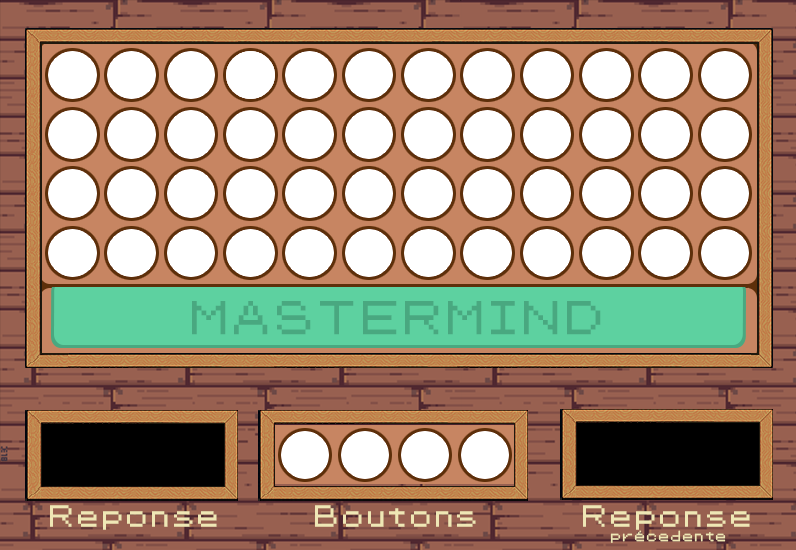
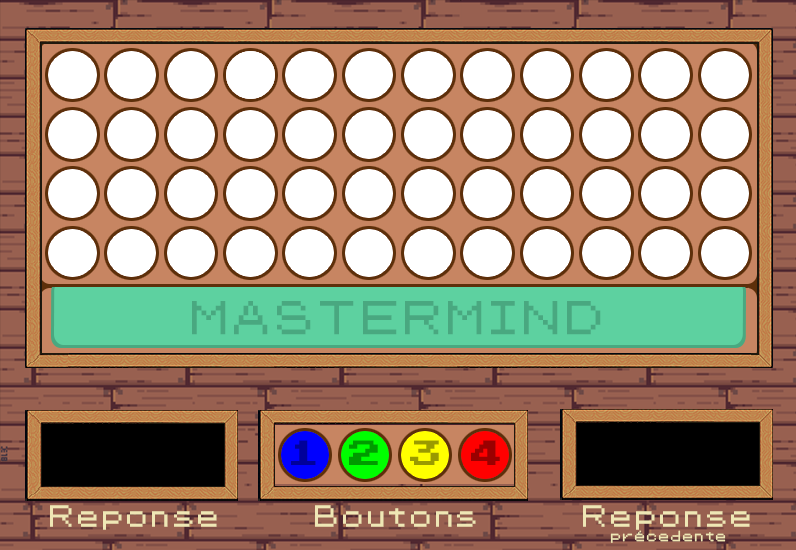
change front panel

Changed region(s): [[0.3317, 0.7727, 0.6633, 0.8964]]

diff --git a/main.py b/main.py
@@ -61,7 +61,7 @@ while True :
             quit()
         if event.type == pygame.KEYDOWN:
             if event.key == K_SPACE:
-                fill_tab(x, (BLUE,RED,YELLOW,choice(color)))
+                fill_tab(x, (choice(color),choice(color),choice(color),choice(color)))
                 x += 1
                 if x == 12 :
                     pygame.quit()
